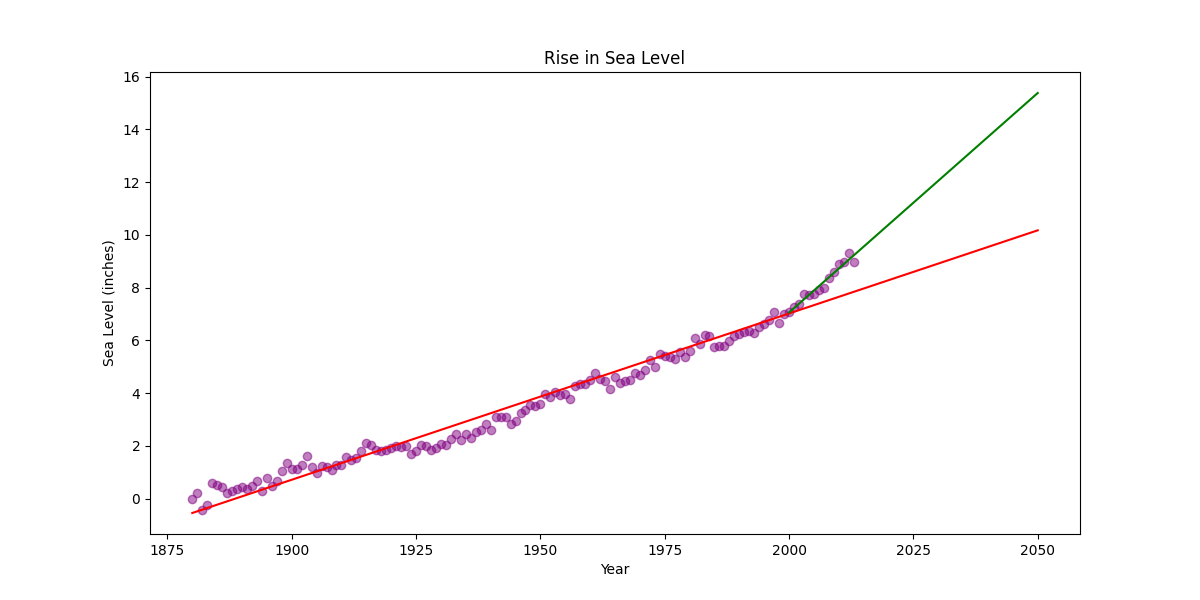
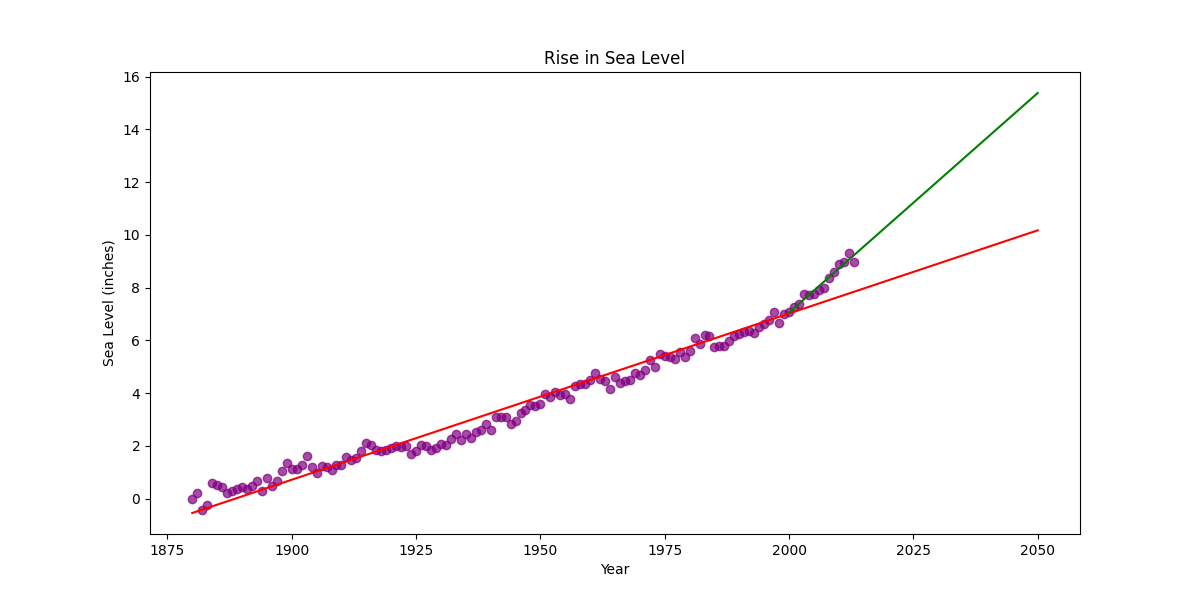
ajustes

Changed region(s): [[0.4317, 0.42, 0.74, 0.69], [0.1542, 0.72, 0.4008, 0.87], [0.4008, 0.69, 0.4317, 0.72]]

diff --git a/sea_level_predictor.py b/sea_level_predictor.py
@@ -9,7 +9,7 @@ def draw_plot():
 
     # Create scatter plot
     plt.figure(figsize=(12, 6))
-    plt.scatter(df['Year'], df['CSIRO Adjusted Sea Level'], color='purple', alpha=0.5)
+    plt.scatter(df['Year'], df['CSIRO Adjusted Sea Level'], color='purple', alpha=0.7)
     
 
 
@@ -17,7 +17,7 @@ def draw_plot():
     slope, intercept, _, _, _ = linregress(df['Year'], df['CSIRO Adjusted Sea Level'])
     future_years = range(1880, 2051)
     line_fit = [slope * year + intercept for year in future_years]
-    plt.plot(future_years, line_fit, color='red', label='Best fit line (1880-2050)')
+    plt.plot(future_years, line_fit, color='red', label='Best fit (1880-2050)')
 
     # Create second line of best fit (2000 - 2050)
 
@@ -25,7 +25,7 @@ def draw_plot():
     slope_recent, intercept_recent, _, _, _ = linregress(recent_data['Year'], recent_data['CSIRO Adjusted Sea Level'])
     future_years_recent = range(2000, 2051)
     line_fit_recent = [slope_recent * year + intercept_recent for year in future_years_recent]
-    plt.plot(future_years_recent, line_fit_recent, color='green', label='Best fit line (2000-2050)')
+    plt.plot(future_years_recent, line_fit_recent, color='green', label='Best fit (2000-2050)')
 
 
     # Add labels and title
